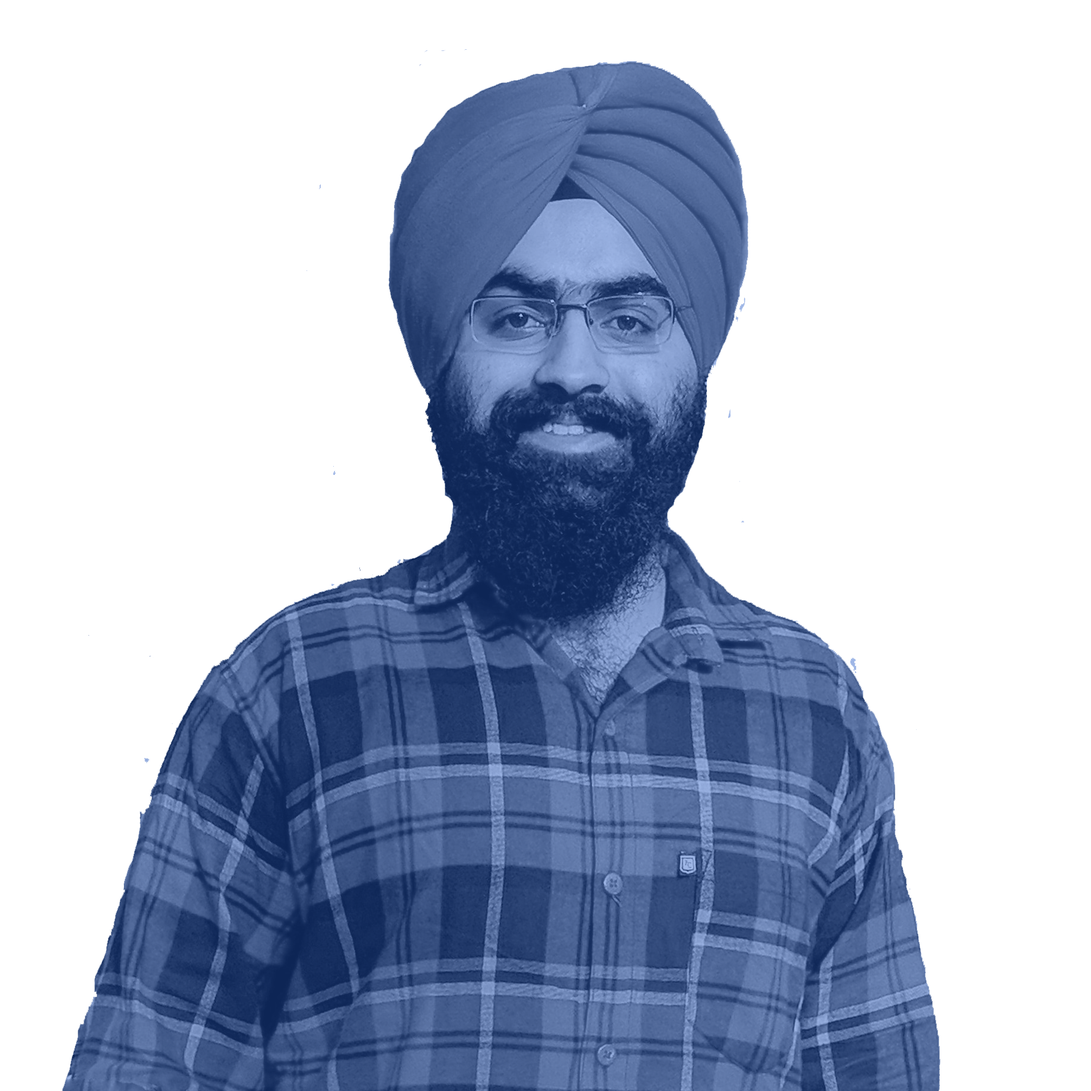
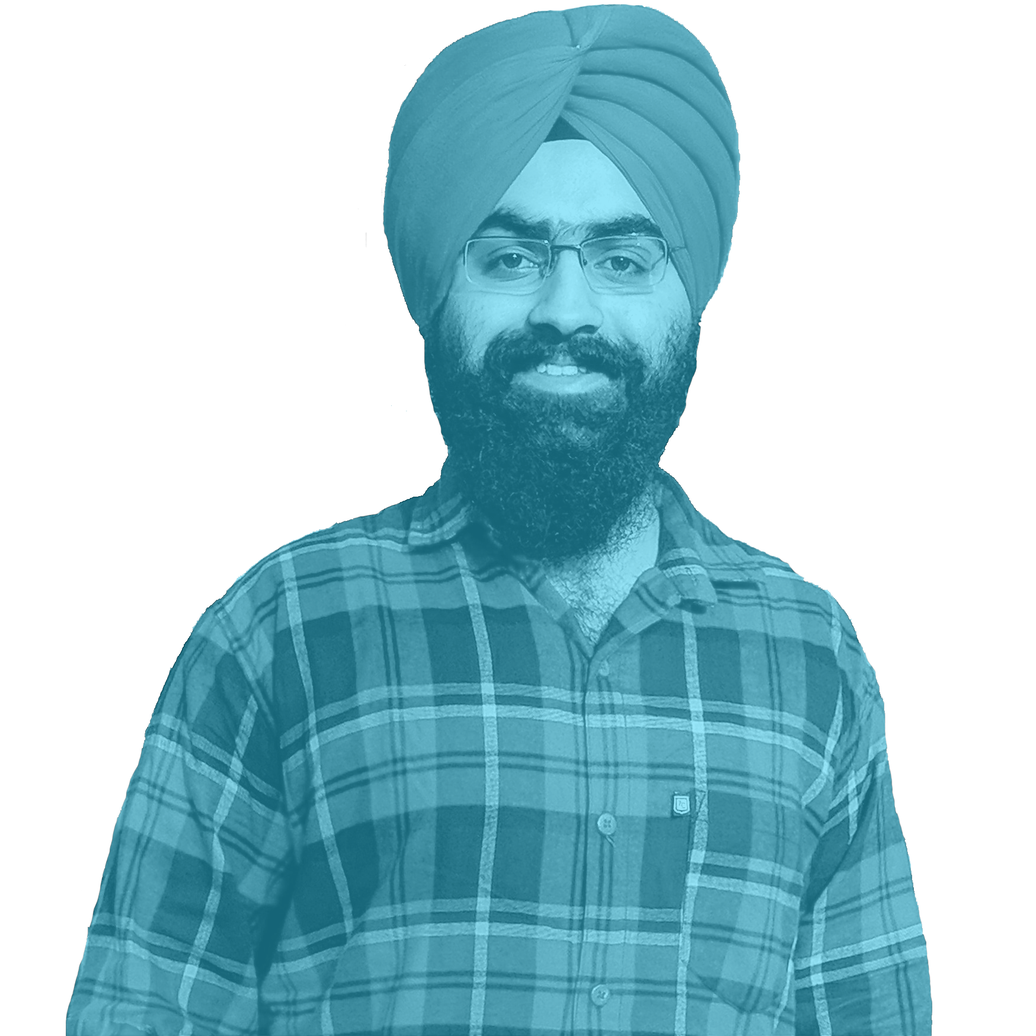
small changes in picture

diff --git a/assets/styles.min.css b/assets/styles.min.css
@@ -1,4 +1,4 @@
-@import url(https://rsms.me/inter/inter-ui.css);*{-webkit-box-sizing:border-box;-moz-box-sizing:border-box;box-sizing:border-box}body,html{margin:0;padding:0}html{font-family:-apple-system,BlinkMacSystemFont,"Segoe UI",Roboto,Oxygen,Ubuntu,Cantarell,"Fira Sans","Droid Sans","Helvetica Neue",Arial,sans-serif;font-size:16px;line-height:1.5}@media (min-width:38em){html{font-size:20px}}body{color:#515151;background-color:#fff;-webkit-text-size-adjust:100%;-ms-text-size-adjust:100%}a{color:#268bd2;text-decoration:none}a:focus,a:hover{text-decoration:underline}a strong{color:inherit}img{display:block;border-radius:5px}table{margin-bottom:1rem;width:100%;font-size:85%;border:1px solid #e5e5e5;border-collapse:collapse}td,th{padding:.25rem .5rem;border:1px solid #e5e5e5}th{text-align:left}tbody tr:nth-child(odd) td,tbody tr:nth-child(odd) th{background-color:#f9f9f9}h1,h2,h3,h4,h5,h6{margin-bottom:.5rem;font-weight:600;line-height:1.25;color:#313131;text-rendering:optimizeLegibility}h1{font-size:2rem}h2{margin-top:1rem;font-size:1.5rem}h3{margin-top:1.5rem;font-size:1.25rem}h4,h5,h6{margin-top:1rem;font-size:1rem}p{margin-top:0;margin-bottom:1rem}strong{color:#303030}dl,ol,ul{margin-top:0;margin-bottom:1rem}dt{font-weight:700}dd{margin-bottom:.5rem}hr{position:relative;margin:1.5rem 0;border:0;border-top:1px solid #eee;border-bottom:1px solid #fff}abbr{font-size:85%;font-weight:700;color:#555;text-transform:uppercase}abbr[title]{cursor:help;border-bottom:1px dotted #e5e5e5}blockquote{padding:.5rem 1rem;margin:.8rem 0;color:#7a7a7a;border-left:.25rem solid #e5e5e5}blockquote p:last-child{margin-bottom:0}@media (min-width:30em){blockquote{padding-right:5rem;padding-left:1.25rem}}a[href^="#fn:"],a[href^="#fnref:"]{display:inline-block;margin-left:.1rem;font-weight:700}.footnotes{margin-top:2rem;font-size:85%}.lead{font-size:1.25rem;font-weight:300}.highlight .hll{background-color:#ffc}.highlight .c{color:#999}.highlight .err{color:#a00;background-color:#faa}.highlight .k{color:#069}.highlight .o{color:#555}.highlight .cm{color:#09f;font-style:italic}.highlight .cp{color:#099}.highlight .c1{color:#999}.highlight .cs{color:#999}.highlight .gd{background-color:#fcc;border:1px solid #c00}.highlight .ge{font-style:italic}.highlight .gr{color:red}.highlight .gh{color:#030}.highlight .gi{background-color:#cfc;border:1px solid #0c0}.highlight .go{color:#aaa}.highlight .gp{color:#009}.highlight .gu{color:#030}.highlight .gt{color:#9c6}.highlight .kc{color:#069}.highlight .kd{color:#069}.highlight .kn{color:#069}.highlight .kp{color:#069}.highlight .kr{color:#069}.highlight .kt{color:#078}.highlight .m{color:#f60}.highlight .s{color:#d44950}.highlight .na{color:#4f9fcf}.highlight .nb{color:#366}.highlight .nc{color:#0a8}.highlight .no{color:#360}.highlight .nd{color:#99f}.highlight .ni{color:#999}.highlight .ne{color:#c00}.highlight .nf{color:#c0f}.highlight .nl{color:#99f}.highlight .nn{color:#0cf}.highlight .nt{color:#2f6f9f}.highlight .nv{color:#033}.highlight .ow{color:#000}.highlight .w{color:#bbb}.highlight .mf{color:#f60}.highlight .mh{color:#f60}.highlight .mi{color:#f60}.highlight .mo{color:#f60}.highlight .sb{color:#c30}.highlight .sc{color:#c30}.highlight .sd{color:#c30;font-style:italic}.highlight .s2{color:#c30}.highlight .se{color:#c30}.highlight .sh{color:#c30}.highlight .si{color:#a00}.highlight .sx{color:#c30}.highlight .sr{color:#3aa}.highlight .s1{color:#c30}.highlight .ss{color:#fc3}.highlight .bp{color:#366}.highlight .vc{color:#033}.highlight .vg{color:#033}.highlight .vi{color:#033}.highlight .il{color:#f60}.css .nt+.nt,.css .o,.css .o+.nt{color:#999}code,pre{font-family:Menlo,Monaco,"Courier New",monospace}code{padding:.25em .5em;font-size:85%;color:#bf616a;background-color:#f9f9f9;border-radius:3px}pre{margin-top:0;margin-bottom:1rem}pre code{padding:0;font-size:100%;color:inherit;background-color:transparent}.highlight{padding:1rem;margin-bottom:1rem;font-size:.8rem;line-height:1.4;background-color:#f9f9f9;border-radius:.25rem}.highlight pre{margin-bottom:0;overflow-x:auto}.highlight .lineno{display:inline-block;padding-right:.75rem;padding-left:.25rem;color:#999;-webkit-user-select:none;-moz-user-select:none;user-select:none}.container{max-width:50rem;padding-left:1.5rem;padding-right:1.5rem;margin-left:auto;margin-right:auto;position:relative}footer{margin-bottom:2rem}.masthead{background-color:#fced9d}.masthead.transparent{background-color:#fced9d;opacity:.8}.masthead-logo{width:50px;padding-top:1rem;padding-bottom:1rem;display:inline-block}.masthead-title{margin-top:0;margin-bottom:0;color:#515151}.masthead-title a{color:inherit}.masthead-title small{font-size:75%;font-weight:400;opacity:.5}.page,.post{margin-bottom:4em}.page li+li,.post li+li{margin-top:.25rem}.home-post-title{font-size:1.2em}.home-post{border-bottom:.5px solid #f1f1f1}.page-title,.post-title,.post-title a{color:#303030;margin-bottom:1rem}.page-title,.post-title{margin-top:0}.post-date{display:block;margin-top:-.5rem;margin-bottom:1rem;color:#c6c6c6}.related{padding-top:2rem;padding-bottom:2rem;margin-bottom:2rem;border-top:1px solid #eee;border-bottom:1px solid #eee}.related-posts{padding-left:0;list-style:none}.related-posts h3{margin-top:0}.related-posts li small{font-size:75%;color:#999}.related-posts li a:hover{color:#268bd2;text-decoration:none}.related-posts li a:hover small{color:inherit}.pagination{overflow:hidden;margin:0 -1.5rem 1rem;color:#ccc;text-align:center}.pagination-item{display:block;padding:1rem;border:solid #eee;border-width:1px 0}.pagination-item:first-child{margin-bottom:-1px}a.pagination-item:hover{background-color:#f5f5f5}@media (min-width:30em){.pagination{margin:3rem 0}.pagination-item{float:left;width:50%;border-width:1px}.pagination-item:first-child{margin-bottom:0;border-top-left-radius:4px;border-bottom-left-radius:4px}.pagination-item:last-child{margin-left:-1px;border-top-right-radius:4px;border-bottom-right-radius:4px}}.message{margin-bottom:1rem;padding:1rem;color:#717171;background-color:#f9f9f9}body,html{margin:0;padding:0;font-family:'Avenir Next',Avenir,'Helvetica Neue',Helvetica,Arial,sans-serif}a{color:#278bd2;text-decoration:none!important;font-weight:600;font-family:'Avenir Next',Avenir,'Helvetica Neue',Helvetica,Arial,sans-serif}p{font-family:'Avenir Next',Avenir,'Helvetica Neue',Helvetica,Arial,sans-serif}a:hover{opacity:.8}.extended-details{font-size:15px;line-height:30px}.extended-details.dark{color:#000}.extended-details{max-height:0;opacity:0;-webkit-transition:max-height 1s ease;-moz-transition:max-height 1s ease;-o-transition:max-height 1s ease;transition:max-height 1s ease;-webkit-transition:all .5s ease;-moz-transition:all .5s ease;-o-transition:all .5s ease;transition:all .5s ease;overflow:hidden}.job-subsection:hover>.extended-details{margin-top:30px;max-height:100%;opacity:.7;-webkit-transition:max-height 1s ease;-moz-transition:max-height 1s ease;-o-transition:max-height 1s ease;transition:max-height 1s ease;-webkit-transition:all .5s ease;-moz-transition:all .5s ease;-o-transition:all .5s ease;transition:all .5s ease}.home-section{height:100vh;max-height:1200px;min-height:600px;width:100vw;background-color:#29b9ee;position:relative;overflow:hidden;z-index:-5;padding:0 0 5em 0;z-index:10}.job-subsection{position:relative;padding:1.5em 0 1.5em 0;border-bottom:1px solid #2a3c57}.job-subsection.last{border-bottom:0 solid #2a3c57}.job-subsection{color:#fff}.request-button-container{margin-top:3em}.request-button.light{background-color:#1d3352;padding:.5em 1em;border-radius:10px;color:#fff;-webkit-transition:all .5s ease;-moz-transition:all .5s ease;-o-transition:all .5s ease;transition:all .5s ease;transform:scale(1)}.request-button.dark{background-color:#1d3352;padding:.5em 1em;border-radius:10px;color:#fff;-webkit-transition:all .5s ease;-moz-transition:all .5s ease;-o-transition:all .5s ease;transition:all .5s ease;transform:scale(1)}.request-button:hover{transform:scale(.95);-webkit-transition:all .5s ease;-moz-transition:all .5s ease;-o-transition:all .5s ease;transition:all .5s ease}.request-button.right{float:right}.job-company{font-weight:700;opacity:.8;font-size:1em}.job-company.dark{font-weight:700;opacity:.8;font-size:1em;color:#142c49}.job-position{font-weight:500;color:#6b7f9c;font-size:.85em;padding-top:.5em}.job-position.sub{opacity:.3;font-weight:400}.job-position.dark.sub{opacity:.75;font-weight:400;color:#1d3352}.job-position.dark{color:#325383}.job-date{font-size:.7em;font-weight:600;color:#485a75;top:1.5em;position:absolute;right:0;padding-top:8px}.job-date.dark{color:#325383;opacity:.8;padding-top:8px}.container{z-index:11}.about-section{width:100vw;background-color:#fff;position:relative;padding:7em 0 7em 0;z-index:12;box-shadow:0 -15px 20px 0 rgba(0,0,0,.25)}.contact-section{width:100vw;background-color:#0b192e;position:relative;padding:7em 0 7em 0}#skills-row-1{background-color:orange;position:relative}#skills-row-2{background-color:green}#skills-row-3{background-color:#ff0}.experience-section{width:100vw;background-color:#152e4e;position:relative;padding:7em 0 7em 0}.skills-subsection{position:relative;margin-top:80px;overflow:hidden}.skills-row-container{white-space:nowrap;position:relative}.skills-row{padding:7px;position:relative;white-space:nowrap;display:inline-block}.skills-row.offset{margin-left:-75px}.education-section{width:100vw;background-color:#2ebaee;position:relative;padding:7em 0 7em 0;margin-top:-1px;z-index:12}.skills-section{width:100vw;background-color:#fff;position:relative;padding:7em 0 7em 0;z-index:12}.skill-circle{opacity:.5;height:125px;width:125px;-webkit-border-radius:100px;-moz-border-radius:100px;border-radius:100px;background-color:#000;display:inline-block;margin-right:25px;transition:all .2s ease-in-out}.skill-circle:hover{transform:scale(1.1);opacity:1}.skill-image{padding:30px}.skill-circle.yellow{background-color:#ffc800}.skill-circle.green{background-color:#3ad95b}.skill-circle.blue{background-color:#278bd2}.skill-circle.pink{background-color:#ff2b91}.skill-circle.teal{background-color:#35dbdc}.skill-circle.purple{background-color:#523ca5}.skill-circle.black{background-color:#000}.dividing-image{width:2rem;opacity:.05;display:block;margin-left:auto;margin-right:auto;margin-bottom:3em}.text{font-family:'Libre Franklin',sans-serif;font-size:.9rem;line-height:1.75rem;color:#000}.text.light{color:#fff;opacity:.6}.title{font-family:'Libre Franklin',sans-serif;position:absolute;top:50%;left:50%;width:50%;margin:-8% 0 0 -25%;font-weight:900;font-style:italic}.pattern{width:100%;height:100%;position:absolute;background-image:url(pattern-blue.png);background-size:150px;opacity:.02;z-index:-3}.social-container{height:130px}.social-icon{width:60px}.social{float:left;padding-right:50px;margin-top:70px;opacity:.4;margin-bottom:50px}.social:hover{opacity:1}.title-text{font-size:6em;text-transform:uppercase;color:#fff;text-align:center;z-index:1;line-height:1em;margin-left:-1em}.section-title{font-family:'Libre Franklin',sans-serif;font-size:2.5em;text-transform:uppercase;color:#133f7f;z-index:1;line-height:1em;padding:.1em 0 .75em 0;font-weight:900;font-style:italic}.spice-circle{position:absolute;opacity:.025;z-index:1}.spice-circle.left{top:0;margin-top:-100px}.spice-circle.right{right:0;bottom:0;width:20em;margin-bottom:-12em;top:inherit;margin-right:5em}.spice-circle.central{left:0;bottom:0;width:22em;margin-left:5em;margin-bottom:-6em;top:inherit;margin-right:5em;opacity:.04}.spice-circle.central-top{right:0;top:0;width:14em;margin-right:15em;margin-top:-4em;opacity:.04}.section-title.light{color:#fff}.subsection-title{font-family:BenchNine,sans-serif;text-transform:uppercase;text-align:left;color:#27aee8;font-size:1.3em}.subsection-title.dark{color:#1d3352}.subsection-title.light{color:#fff}.subsection-title.experience{color:#27aee8}.subsection-title.education{color:#27aee8}.title-text.outline{color:transparent!important;-webkit-text-stroke:2px #fff;margin-left:0;margin-right:-1em}.my-picture{position:absolute;margin-left:auto;margin-right:auto;bottom:0;z-index:-2;left:50%;transform:translate(-50%,0);max-height:98%;pointer-events:none;opacity:.9}.action-button{color:#33418a}.bouncy-button{z-index:100;bottom:0;position:absolute;left:50%;width:220px;text-align:center;margin-bottom:3em;margin-left:-110px;padding:10px 0 10px 0;background-color:#fff;border-radius:10px;font-family:'Libre Franklin',sans-serif;font-weight:600;z-index:100}.bouncy-button:hover{-webkit-transition:all .1s ease-in-out;-moz-transition:all .1s ease-in-out;-o-transition:all .1s ease-in-out;transition:all .1s ease-in-out}.column{float:left;width:33.33%}.skill-header{margin-top:.5em;margin-bottom:1em;font-weight:700}.skill-row{font-size:.8em;line-height:2em}.row:after{content:"";display:table;clear:both}@media screen and (max-width:600px){.column{width:100%}.profile-image{height:100vh}}@media screen and (min-width:1000px){.profile-image{max-width:100vw;width:48em}}@media (min-width:2000px){.title{margin:-3% 0 0 -25%}}@media (min-width:1800px){.title{margin:-3% 0 0 -25%}}@media (min-width:4000px){.title{margin:-2% 0 0 -25%;font-size:1.2em}.title-text{font-size:7em}}@media (max-width:1100px){.title-text{font-size:4em}}@media (max-width:800px){.title-text{font-size:3em}.title{margin:-15% 0 0 -25%}}@media (max-width:700px){.title-text{font-size:2em}.job-company{font-size:.85em}.job-position{font-size:.75em}.job-date{padding-top:.5em;font-size:.75em}.title{margin:-20% 0 0 -25%}}/*!
+@import url(https://rsms.me/inter/inter-ui.css);*{-webkit-box-sizing:border-box;-moz-box-sizing:border-box;box-sizing:border-box}body,html{margin:0;padding:0}html{font-family:-apple-system,BlinkMacSystemFont,"Segoe UI",Roboto,Oxygen,Ubuntu,Cantarell,"Fira Sans","Droid Sans","Helvetica Neue",Arial,sans-serif;font-size:16px;line-height:1.5}@media (min-width:38em){html{font-size:20px}}body{color:#515151;background-color:#fff;-webkit-text-size-adjust:100%;-ms-text-size-adjust:100%}a{color:#268bd2;text-decoration:none}a:focus,a:hover{text-decoration:underline}a strong{color:inherit}img{display:block;border-radius:5px}table{margin-bottom:1rem;width:100%;font-size:85%;border:1px solid #e5e5e5;border-collapse:collapse}td,th{padding:.25rem .5rem;border:1px solid #e5e5e5}th{text-align:left}tbody tr:nth-child(odd) td,tbody tr:nth-child(odd) th{background-color:#f9f9f9}h1,h2,h3,h4,h5,h6{margin-bottom:.5rem;font-weight:600;line-height:1.25;color:#313131;text-rendering:optimizeLegibility}h1{font-size:2rem}h2{margin-top:1rem;font-size:1.5rem}h3{margin-top:1.5rem;font-size:1.25rem}h4,h5,h6{margin-top:1rem;font-size:1rem}p{margin-top:0;margin-bottom:1rem}strong{color:#303030}dl,ol,ul{margin-top:0;margin-bottom:1rem}dt{font-weight:700}dd{margin-bottom:.5rem}hr{position:relative;margin:1.5rem 0;border:0;border-top:1px solid #eee;border-bottom:1px solid #fff}abbr{font-size:85%;font-weight:700;color:#555;text-transform:uppercase}abbr[title]{cursor:help;border-bottom:1px dotted #e5e5e5}blockquote{padding:.5rem 1rem;margin:.8rem 0;color:#7a7a7a;border-left:.25rem solid #e5e5e5}blockquote p:last-child{margin-bottom:0}@media (min-width:30em){blockquote{padding-right:5rem;padding-left:1.25rem}}a[href^="#fn:"],a[href^="#fnref:"]{display:inline-block;margin-left:.1rem;font-weight:700}.footnotes{margin-top:2rem;font-size:85%}.lead{font-size:1.25rem;font-weight:300}.highlight .hll{background-color:#ffc}.highlight .c{color:#999}.highlight .err{color:#a00;background-color:#faa}.highlight .k{color:#069}.highlight .o{color:#555}.highlight .cm{color:#09f;font-style:italic}.highlight .cp{color:#099}.highlight .c1{color:#999}.highlight .cs{color:#999}.highlight .gd{background-color:#fcc;border:1px solid #c00}.highlight .ge{font-style:italic}.highlight .gr{color:red}.highlight .gh{color:#030}.highlight .gi{background-color:#cfc;border:1px solid #0c0}.highlight .go{color:#aaa}.highlight .gp{color:#009}.highlight .gu{color:#030}.highlight .gt{color:#9c6}.highlight .kc{color:#069}.highlight .kd{color:#069}.highlight .kn{color:#069}.highlight .kp{color:#069}.highlight .kr{color:#069}.highlight .kt{color:#078}.highlight .m{color:#f60}.highlight .s{color:#d44950}.highlight .na{color:#4f9fcf}.highlight .nb{color:#366}.highlight .nc{color:#0a8}.highlight .no{color:#360}.highlight .nd{color:#99f}.highlight .ni{color:#999}.highlight .ne{color:#c00}.highlight .nf{color:#c0f}.highlight .nl{color:#99f}.highlight .nn{color:#0cf}.highlight .nt{color:#2f6f9f}.highlight .nv{color:#033}.highlight .ow{color:#000}.highlight .w{color:#bbb}.highlight .mf{color:#f60}.highlight .mh{color:#f60}.highlight .mi{color:#f60}.highlight .mo{color:#f60}.highlight .sb{color:#c30}.highlight .sc{color:#c30}.highlight .sd{color:#c30;font-style:italic}.highlight .s2{color:#c30}.highlight .se{color:#c30}.highlight .sh{color:#c30}.highlight .si{color:#a00}.highlight .sx{color:#c30}.highlight .sr{color:#3aa}.highlight .s1{color:#c30}.highlight .ss{color:#fc3}.highlight .bp{color:#366}.highlight .vc{color:#033}.highlight .vg{color:#033}.highlight .vi{color:#033}.highlight .il{color:#f60}.css .nt+.nt,.css .o,.css .o+.nt{color:#999}code,pre{font-family:Menlo,Monaco,"Courier New",monospace}code{padding:.25em .5em;font-size:85%;color:#bf616a;background-color:#f9f9f9;border-radius:3px}pre{margin-top:0;margin-bottom:1rem}pre code{padding:0;font-size:100%;color:inherit;background-color:transparent}.highlight{padding:1rem;margin-bottom:1rem;font-size:.8rem;line-height:1.4;background-color:#f9f9f9;border-radius:.25rem}.highlight pre{margin-bottom:0;overflow-x:auto}.highlight .lineno{display:inline-block;padding-right:.75rem;padding-left:.25rem;color:#999;-webkit-user-select:none;-moz-user-select:none;user-select:none}.container{max-width:50rem;padding-left:1.5rem;padding-right:1.5rem;margin-left:auto;margin-right:auto;position:relative}footer{margin-bottom:2rem}.masthead{background-color:#fced9d}.masthead.transparent{background-color:#fced9d;opacity:.8}.masthead-logo{width:50px;padding-top:1rem;padding-bottom:1rem;display:inline-block}.masthead-title{margin-top:0;margin-bottom:0;color:#515151}.masthead-title a{color:inherit}.masthead-title small{font-size:75%;font-weight:400;opacity:.5}.page,.post{margin-bottom:4em}.page li+li,.post li+li{margin-top:.25rem}.home-post-title{font-size:1.2em}.home-post{border-bottom:.5px solid #f1f1f1}.page-title,.post-title,.post-title a{color:#303030;margin-bottom:1rem}.page-title,.post-title{margin-top:0}.post-date{display:block;margin-top:-.5rem;margin-bottom:1rem;color:#c6c6c6}.related{padding-top:2rem;padding-bottom:2rem;margin-bottom:2rem;border-top:1px solid #eee;border-bottom:1px solid #eee}.related-posts{padding-left:0;list-style:none}.related-posts h3{margin-top:0}.related-posts li small{font-size:75%;color:#999}.related-posts li a:hover{color:#268bd2;text-decoration:none}.related-posts li a:hover small{color:inherit}.pagination{overflow:hidden;margin:0 -1.5rem 1rem;color:#ccc;text-align:center}.pagination-item{display:block;padding:1rem;border:solid #eee;border-width:1px 0}.pagination-item:first-child{margin-bottom:-1px}a.pagination-item:hover{background-color:#f5f5f5}@media (min-width:30em){.pagination{margin:3rem 0}.pagination-item{float:left;width:50%;border-width:1px}.pagination-item:first-child{margin-bottom:0;border-top-left-radius:4px;border-bottom-left-radius:4px}.pagination-item:last-child{margin-left:-1px;border-top-right-radius:4px;border-bottom-right-radius:4px}}.message{margin-bottom:1rem;padding:1rem;color:#717171;background-color:#f9f9f9}body,html{margin:0;padding:0;font-family:'Avenir Next',Avenir,'Helvetica Neue',Helvetica,Arial,sans-serif}a{color:#278bd2;text-decoration:none!important;font-weight:600;font-family:'Avenir Next',Avenir,'Helvetica Neue',Helvetica,Arial,sans-serif}p{font-family:'Avenir Next',Avenir,'Helvetica Neue',Helvetica,Arial,sans-serif}a:hover{opacity:.8}.extended-details{font-size:15px;line-height:30px}.extended-details.dark{color:#000}.extended-details{max-height:0;opacity:0;-webkit-transition:max-height 1s ease;-moz-transition:max-height 1s ease;-o-transition:max-height 1s ease;transition:max-height 1s ease;-webkit-transition:all .5s ease;-moz-transition:all .5s ease;-o-transition:all .5s ease;transition:all .5s ease;overflow:hidden}.job-subsection:hover>.extended-details{margin-top:30px;max-height:100%;opacity:.7;-webkit-transition:max-height 1s ease;-moz-transition:max-height 1s ease;-o-transition:max-height 1s ease;transition:max-height 1s ease;-webkit-transition:all .5s ease;-moz-transition:all .5s ease;-o-transition:all .5s ease;transition:all .5s ease}.home-section{height:100vh;max-height:1200px;min-height:600px;width:100vw;background-color:#29b9ee;position:relative;overflow:hidden;z-index:-5;padding:0 0 5em 0;z-index:10}.job-subsection{position:relative;padding:1.5em 0 1.5em 0;border-bottom:1px solid #2a3c57}.job-subsection.last{border-bottom:0 solid #2a3c57}.job-subsection{color:#fff}.request-button-container{margin-top:3em}.request-button.light{background-color:#1d3352;padding:.5em 1em;border-radius:10px;color:#fff;-webkit-transition:all .5s ease;-moz-transition:all .5s ease;-o-transition:all .5s ease;transition:all .5s ease;transform:scale(1)}.request-button.dark{background-color:#1d3352;padding:.5em 1em;border-radius:10px;color:#fff;-webkit-transition:all .5s ease;-moz-transition:all .5s ease;-o-transition:all .5s ease;transition:all .5s ease;transform:scale(1)}.request-button:hover{transform:scale(.95);-webkit-transition:all .5s ease;-moz-transition:all .5s ease;-o-transition:all .5s ease;transition:all .5s ease}.request-button.right{float:right}.job-company{font-weight:700;opacity:.8;font-size:1em}.job-company.dark{font-weight:700;opacity:.8;font-size:1em;color:#142c49}.job-position{font-weight:500;color:#6b7f9c;font-size:.85em;padding-top:.5em}.job-position.sub{opacity:.3;font-weight:400}.job-position.dark.sub{opacity:.75;font-weight:400;color:#1d3352}.job-position.dark{color:#325383}.job-date{font-size:.7em;font-weight:600;color:#485a75;top:1.5em;position:absolute;right:0;padding-top:8px}.job-date.dark{color:#325383;opacity:.8;padding-top:8px}.container{z-index:11}.about-section{width:100vw;background-color:#fff;position:relative;padding:7em 0 7em 0;z-index:12;box-shadow:0 -15px 20px 0 rgba(0,0,0,.25)}.contact-section{width:100vw;background-color:#0b192e;position:relative;padding:7em 0 7em 0}#skills-row-1{background-color:orange;position:relative}#skills-row-2{background-color:green}#skills-row-3{background-color:#ff0}.experience-section{width:100vw;background-color:#152e4e;position:relative;padding:7em 0 7em 0}.skills-subsection{position:relative;margin-top:80px;overflow:hidden}.skills-row-container{white-space:nowrap;position:relative}.skills-row{padding:7px;position:relative;white-space:nowrap;display:inline-block}.skills-row.offset{margin-left:-75px}.education-section{width:100vw;background-color:#2ebaee;position:relative;padding:7em 0 7em 0;margin-top:-1px;z-index:12}.skills-section{width:100vw;background-color:#fff;position:relative;padding:7em 0 7em 0;z-index:12}.skill-circle{opacity:.5;height:125px;width:125px;-webkit-border-radius:100px;-moz-border-radius:100px;border-radius:100px;background-color:#000;display:inline-block;margin-right:25px;transition:all .2s ease-in-out}.skill-circle:hover{transform:scale(1.1);opacity:1}.skill-image{padding:30px}.skill-circle.yellow{background-color:#ffc800}.skill-circle.green{background-color:#3ad95b}.skill-circle.blue{background-color:#278bd2}.skill-circle.pink{background-color:#ff2b91}.skill-circle.teal{background-color:#35dbdc}.skill-circle.purple{background-color:#523ca5}.skill-circle.black{background-color:#000}.dividing-image{width:2rem;opacity:.05;display:block;margin-left:auto;margin-right:auto;margin-bottom:3em}.text{font-family:'Libre Franklin',sans-serif;font-size:.9rem;line-height:1.75rem;color:#000}.text.light{color:#fff;opacity:.6}.title{font-family:'Libre Franklin',sans-serif;position:absolute;top:50%;left:50%;width:50%;margin:-8% 0 0 -25%;font-weight:900;font-style:italic}.pattern{width:100%;height:100%;position:absolute;background-image:url(pattern-blue.png);background-size:150px;opacity:.02;z-index:-3}.social-container{height:130px}.social-icon{width:60px}.social{float:left;padding-right:50px;margin-top:70px;opacity:.4;margin-bottom:50px}.social:hover{opacity:1}.title-text{font-size:6em;text-transform:uppercase;color:#fff;text-align:center;z-index:1;line-height:1em;margin-left:-1em}.section-title{font-family:'Libre Franklin',sans-serif;font-size:2.5em;text-transform:uppercase;color:#133f7f;z-index:1;line-height:1em;padding:.1em 0 .75em 0;font-weight:900;font-style:italic}.spice-circle{position:absolute;opacity:.025;z-index:1}.spice-circle.left{top:0;margin-top:-100px}.spice-circle.right{right:0;bottom:0;width:20em;margin-bottom:-12em;top:inherit;margin-right:5em}.spice-circle.central{left:0;bottom:0;width:22em;margin-left:5em;margin-bottom:-6em;top:inherit;margin-right:5em;opacity:.04}.spice-circle.central-top{right:0;top:0;width:14em;margin-right:15em;margin-top:-4em;opacity:.04}.section-title.light{color:#fff}.subsection-title{font-family:BenchNine,sans-serif;text-transform:uppercase;text-align:left;color:#27aee8;font-size:1.3em}.subsection-title.dark{color:#1d3352}.subsection-title.light{color:#fff}.subsection-title.experience{color:#27aee8}.subsection-title.education{color:#27aee8}.title-text.outline{color:transparent!important;-webkit-text-stroke:2px #fff;margin-left:0;margin-right:-1em}.my-picture{position:absolute;margin-left:auto;margin-right:auto;bottom:0;z-index:-2;left:50%;transform:translate(-50%,0);max-height:100%;pointer-events:none;opacity:.9}.action-button{color:#33418a}.bouncy-button{z-index:100;bottom:0;position:absolute;left:50%;width:220px;text-align:center;margin-bottom:3em;margin-left:-110px;padding:10px 0 10px 0;background-color:#fff;border-radius:10px;font-family:'Libre Franklin',sans-serif;font-weight:600;z-index:100}.bouncy-button:hover{-webkit-transition:all .1s ease-in-out;-moz-transition:all .1s ease-in-out;-o-transition:all .1s ease-in-out;transition:all .1s ease-in-out}.column{float:left;width:33.33%}.skill-header{margin-top:.5em;margin-bottom:1em;font-weight:700}.skill-row{font-size:.8em;line-height:2em}.row:after{content:"";display:table;clear:both}@media screen and (max-width:600px){.column{width:100%}.profile-image{height:100vh}}@media screen and (min-width:1000px){.profile-image{max-width:100vw;width:48em}}@media (min-width:2000px){.title{margin:-3% 0 0 -25%}}@media (min-width:1800px){.title{margin:-3% 0 0 -25%}}@media (min-width:4000px){.title{margin:-2% 0 0 -25%;font-size:1.2em}.title-text{font-size:7em}}@media (max-width:1100px){.title-text{font-size:4em}}@media (max-width:800px){.title-text{font-size:3em}.title{margin:-15% 0 0 -25%}}@media (max-width:700px){.title-text{font-size:2em}.job-company{font-size:.85em}.job-position{font-size:.75em}.job-date{padding-top:.5em;font-size:.75em}.title{margin:-20% 0 0 -25%}}/*!
  * animate.css -http://daneden.me/animate
  * Version - 3.7.0
  * Licensed under the MIT license - http://opensource.org/licenses/MIT

diff --git a/index.html b/index.html
@@ -225,6 +225,7 @@
                                     <div class="skill-row">Laravel 6</div>
                                     <div class="skill-row">ExpressJS</div>
                                     <div class="skill-row">NodeJS</div>
+                                    <div class="skill-row">.NET MVC</div>
                                 </div>
                             </div>
                         </div>
@@ -258,7 +259,6 @@
         gtag('config', 'UA-104676451-2');
     </script>
     <script src="https://code.jquery.com/jquery-3.5.1.min.js" integrity="sha256-9/aliU8dGd2tb6OSsuzixeV4y/faTqgFtohetphbbj0=" crossorigin="anonymous"></script>
-    <script src="./assets/scripts.js"></script>
     <script async src="https://cdn.jsdelivr.net/npm/pwacompat@2.0.7/pwacompat.min.js" integrity="sha384-ptgwb3/v69WGur7IwSnWOowVxE7hcRB3DG/EiHdejrw2sFNwUHynFbiRMPxc4hdS" crossorigin="anonymous">
     </script>
 </body>

diff --git a/assets/styles.css b/assets/styles.css
@@ -1121,7 +1121,7 @@ a:hover {
     z-index: -2;
     left: 50%;
     transform: translate(-50%, 0);
-    max-height: 98%;
+    max-height: 100%;
     pointer-events: none;
     opacity: 0.9
 }
